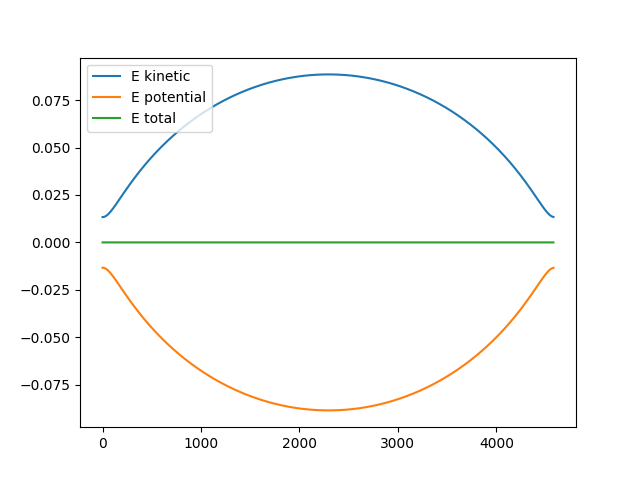
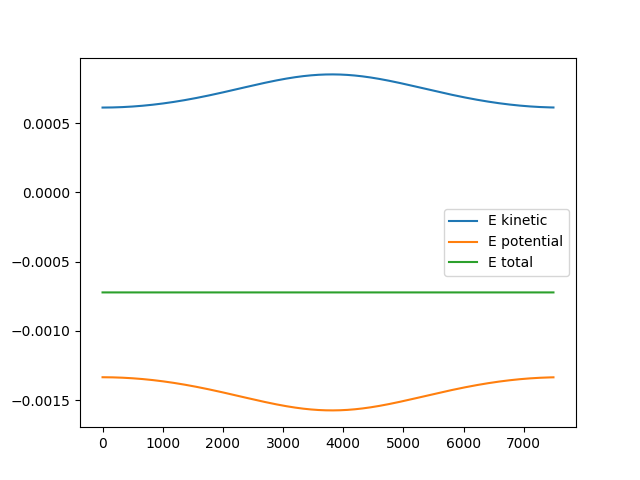
cleanup + Fixes

diff --git a/model.py b/model.py
@@ -1,7 +1,6 @@
 import moderngl as mgl
 import numpy as np
 import glm
-from time import time
 import struct
 
 class BaseModel:
@@ -29,7 +28,6 @@ class Cube(BaseModel):
     def __init__(self, app, vao_name='cube', pos=(0,0,0), color=(1,0,1)):
         super().__init__(app,vao_name,pos)
         self.color = color
-        #print(self.color)
         self.on_init()
     
     def on_init(self):
@@ -56,17 +54,15 @@ class Sphere(BaseModel):
     def on_init(self):
         #self.program['camPos'].write(self.camera.position)
         self.program['color'].write(glm.vec3(self.color))
-        #matrix view projection
+
         self.program['m_proj'].write(self.camera.m_proj)
         self.program['m_view'].write(self.camera.m_view)
         self.program['m_model'].write(self.m_model)
     
     def update(self):
         self.program['color'].write(glm.vec3(self.color))
-        #self.program['camPos'].write(self.camera.position)
         self.program['m_view'].write(self.camera.m_view)
         self.program['m_model'].write(self.m_model)
-
 
 class Trajectory(BaseModel):
     def __init__(self, app, vao_name='trajectory', pos=(0,0,0), color=(1,0,1)):
@@ -76,20 +72,14 @@ class Trajectory(BaseModel):
         self.on_init()
 
     def on_init(self):
-        #self.program['camPos'].write(self.camera.position)
         self.program['color'].write(glm.vec3(self.color))
-        #matrix view projection
         #self.program['time'].write(struct.pack('!f', self.time))
+
         self.program['m_proj'].write(self.camera.m_proj)
         self.program['m_view'].write(self.camera.m_view)
         self.program['m_model'].write(self.m_model)
     
     def update(self):
-        #self.program['color'].write(glm.vec3(self.color))
-        #self.program['camPos'].write(self.camera.position)
-        #print(int(time())%100)
-        #self.program['time'].write(struct.pack('!f', self.time))
-        #self.program['camPos'].write(self.camera.position)
         self.program['m_view'].write(self.camera.m_view)
         self.program['m_model'].write(self.m_model)
         self.time += 0.000001

diff --git a/main.py b/main.py
@@ -5,23 +5,19 @@ import sys
 from scene import Scene
 from camera import Camera
 from mesh import Mesh
+from shader_program import ShaderProgram
 
-
-# !!! Если хотите увидеть часть где происходит симуляция, идите в simulator.py !!!
-# !!! Изменить параметры симуляции можно в simulationsettings.py !!!
 
 class Engine:
     def __init__(self, win_size=(1600,900)):
-        #init pygame window
        
         pg.init()
         self.WIN_SIZE = win_size
-        #prepare pygame to be render surface for OGL
+
         pg.display.gl_set_attribute(pg.GL_CONTEXT_MAJOR_VERSION, 3)
         pg.display.gl_set_attribute(pg.GL_CONTEXT_MINOR_VERSION, 3)
         pg.display.gl_set_attribute(pg.GL_CONTEXT_PROFILE_MASK,
                                     pg.GL_CONTEXT_PROFILE_CORE)
-        
         pg.display.set_mode(self.WIN_SIZE, flags = pg.OPENGL | pg.DOUBLEBUF)
 
         pg.event.set_grab(True)
@@ -29,16 +25,19 @@ class Engine:
 
         self.clock = pg.time.Clock()
 
-        #init OGLs
+        #init OGL
         self.ctx = mgl.create_context()
         self.ctx.enable(flags=mgl.DEPTH_TEST | mgl.CULL_FACE)
-        #self.ctx.blend_func = (mgl.SRC_ALPHA, mgl.ONE_MINUS_SRC_ALPHA)
         self.ctx.line_width = 3
         
         #misc variables
         self.time = 0
         self.delta_time = 0
-
+        
+        #shaders
+        self.shaders = ShaderProgram(self.ctx)
+        self.shaders.load_program('default')
+        self.shaders.load_program('trajectory')
         #camera
         self.camera = Camera(self)
         #mesh
@@ -56,9 +55,7 @@ class Engine:
     def render(self):
         self.ctx.clear(color=(0.08, 0.16, 0.18))
         self.scene.render()
-        #g.draw.circle(self.gui, (100,100,100), (500,500), 100) 
         pg.display.flip()
-        #self.gui.fill((0,0,0,0))
     
     def get_time(self):
         self.time = pg.time.get_ticks() * 0.001

diff --git a/simulationsettings.py b/simulationsettings.py
@@ -19,14 +19,14 @@ if SOLVER == "ODE":
     LOOP_STOP = False # не используется солвером ODE
 else:
     #Change if your solver is PHYS
-    M = 1000000
+    M = 10000
     R = 3 #не трогать
     r = 1 
-    SCALE = 1 
-    VELOCITY = np.array([0,0.041,0.0], dtype=np.float32)
+    SCALE = 1
+    VELOCITY = np.array([0.00,0.0045,0.00], dtype=np.float32)
     POSITION = np.array([4,0,0])
-    ATMOSPHERE = 1 # 0 <= x <= 1 высота атмосферы
-    A_DENSITY = 0 #плотность атмосферы
+    ATMOSPHERE = 1 #высота атмосферы
+    A_DENSITY = 0.0 #плотность самого нижнего уровня атмосферы
     LOOP_STOP = True #Должны ли мы считать только 1 круг или продолжать делать круги после 1-го
     #LOOP_STOP желательно выключить если есть атмосфера
 

diff --git a/shader_program.py b/shader_program.py
@@ -6,8 +6,8 @@ class ShaderProgram:
         self.path = abspath(getsourcefile(lambda:0)).replace("shader_program.py", "")
         self.ctx = ctx
         self.programs = {}
-        self.programs['default'] = self.get_program('default')
-        self.programs['trajectory'] = self.get_program('trajectory')
+        #self.programs['default'] = self.get_program('default')
+        #self.programs['trajectory'] = self.get_program('trajectory')
     
     def get_program(self, shader_name):
         with open(self.path+f'program/{shader_name}.vert') as file:
@@ -18,6 +18,9 @@ class ShaderProgram:
         
         program = self.ctx.program(vertex_shader=vertex_shader,fragment_shader=fragment_shader)
         return program
+    
+    def load_program(self, name):
+        self.programs[name] = self.get_program(name)
     
     def destroy(self):
         [program.release() for program in self.programs.values()]

diff --git a/simulator.py b/simulator.py
@@ -81,7 +81,7 @@ class SimulatorEngine:
     def simulatePHYS(self):
         points = []
         velocity = []
-        energy = [[],[],[]]
+        energy = [[],[],[],[],[]]
 
         points.append(self.satellite.pos/self.scale)
         entered = True
@@ -110,8 +110,8 @@ class SimulatorEngine:
                 points.append(self.satellite.pos/self.scale)
 
                 #energy
-                Ek = (self.G*self.satellite.mass*self.planet.mass)/2*dist
-                Ep = 0.5*-self.G * self.planet.mass*self.satellite.mass * 1 * dist
+                Ek = 0.5*self.satellite.mass * np.linalg.norm(self.satellite.velocity)**2
+                Ep = self.satellite.mass * -forceMagnitude * dist
                 energy[0].append([Ek])
                 energy[1].append([Ep])
                 energy[2].append([Ek+Ep])

diff --git a/scene.py b/scene.py
@@ -14,11 +14,8 @@ class Scene:
         app = self.app
         add = self.add_object
 
-        #add(Cube(app, pos=(6,0,0), color=(1,1,1)))
-        add(Sphere(app,pos=(0,0,0), color=(0.5,0.8,0.8)))
+        add(Sphere(app,pos=(0,0,0)))
         self.trajectory = Trajectory(app,pos=(0,0,0), color=(1,1,1))
-        #add(Sphere(app,pos=(0,6,0), color=(0.5,0,0)))
-        #add(Cube(app, pos=(-2.5,0,0), color=(1,1,1)))
     
     def render(self):
         self.render3D()
@@ -32,8 +29,6 @@ class Scene:
             obj.render(mgl.LINES)
             self.app.ctx.polygon_offset = 0, 0
             obj.color = (1,1,1)
-    
-    #def render3D(self):
 
     def renderLine(self):
         self.trajectory.render(mgl.LINE_STRIP)

diff --git a/vao.py b/vao.py
@@ -1,17 +1,11 @@
 from vbo import VBO
-from shader_program import ShaderProgram
 
 class VAO:
-    def __init__(self, ctx):
-        self.ctx = ctx
-        self.vbo = VBO(ctx)
-        self.program = ShaderProgram(ctx)
+    def __init__(self, app):
+        self.ctx = app.ctx
+        self.vbo = VBO(app.ctx)
+        self.program = app.shaders
         self.vaos = {}
-
-        self.vaos["cube"] = self.get_vao(
-            program = self.program.programs["default"],
-            vbo = self.vbo.vbos['cube']
-        )
 
         self.vaos["sphere"] = self.get_vao(
             program = self.program.programs["default"],

diff --git a/camera.py b/camera.py
@@ -45,7 +45,7 @@ class Camera:
         self.m_view = self.get_view_matrix()
     
     def move(self):
-        #(in ryphm) Trust me, i am a programmer! There is a need for so much IF's!
+        #Trust me, i am a programmer! There is a need for so much IF's!
         velocity = SPEED * self.app.delta_time
         keys = pg.key.get_pressed()
         if keys[pg.K_w]:

diff --git a/mesh.py b/mesh.py
@@ -4,7 +4,7 @@ import numpy as np
 class Mesh:
     def __init__(self, app):
         self.app = app
-        self.vao = VAO(app.ctx)
+        self.vao = VAO(app)
     
     def destroy(self):
         self.vao.destroy()
